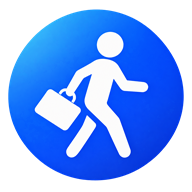
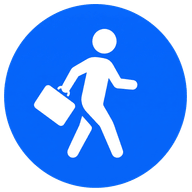
feat: add brand assets, build script, and core layout components

diff --git a/src/components/shared/Logo.tsx b/src/components/shared/Logo.tsx
@@ -3,27 +3,30 @@ import type { CSSProperties } from "react";
 
 type LogoVariant = "primary" | "brand" | "bar" | "mark" | "icon";
 
-// Real dimensions of the trimmed source assets in public/logos/ (and
-// app/icon.png for the "icon" variant) — used to derive width from a target
-// height so the mark is never stretched.
-const VARIANTS: Record<LogoVariant, { src: string; width: number; height: number }> = {
+// Web versions of the official brand files, built from public/logos/ by
+// scripts/build-brand-assets.cjs (trimmed, compressed, and with the mark's
+// walking figure filled white). Dimensions are used to derive width from a
+// target height so the logo is never stretched.
+//
+// `box`: the share of the requested `height` the artwork itself fills. The
+// original lockup files carried a lot of empty padding and every call site
+// sized them with that padding included (height={72} drew ~29px of logo), so
+// the trimmed lockup keeps that meaning: same visible size, same spacing.
+const VARIANTS: Record<LogoVariant, { src: string; width: number; height: number; box?: number }> = {
   // Stacked lockup: mark over "TalentSnaps" wordmark over tagline. Square —
   // only fits contexts with real room (footer, docs, big brand sections),
   // never a shallow navbar/sidebar row.
   primary: { src: "/logos/primary-logo.png", width: 2048, height: 2048 },
   // Horizontal mark + "TalentSnaps" wordmark + tagline. The default for any
   // shallow horizontal slot: navbars, expanded sidebars, auth screens.
-  brand: { src: "/logos/brand-logo.png", width: 2880, height: 1440 },
+  brand: { src: "/brand/lockup.png", width: 1400, height: 308, box: 578 / 1440 },
   // Mark only, square — used at small sizes for the tightest spaces (mobile
   // nav, thin bars) since the full wordmark+tagline lockup isn't legible
   // that small. Use via <ResponsiveLogo> rather than directly in most cases.
-  bar: { src: "/logos/bar-logo.png", width: 2048, height: 2048 },
+  bar: { src: "/brand/mark.png", width: 512, height: 512 },
   // Mark only, no text — collapsed sidebar, floating buttons, loaders,
   // decorative watermarks, anywhere text would be too small to read.
-  // Note: this asset has an opaque white background rather than
-  // transparency, so it'll show a faint white square on non-white
-  // surfaces (e.g. AuthSplitLayout's dark sidebar) until re-exported.
-  mark: { src: "/logos/logo-mark.png", width: 2048, height: 2048 },
+  mark: { src: "/brand/mark.png", width: 512, height: 512 },
   // Circular app-icon badge — matches app/icon.png, for the rare in-app
   // spot that wants the literal favicon-shaped mark rather than the bare
   // arrow (e.g. an "install app" prompt).
@@ -43,18 +46,20 @@ export function Logo({
   priority?: boolean;
   style?: CSSProperties;
 }) {
-  const { src, width, height: naturalHeight } = VARIANTS[variant];
-  const computedWidth = Math.round((width / naturalHeight) * height);
+  const { src, width, height: naturalHeight, box = 1 } = VARIANTS[variant];
+  const drawn = Math.round(height * box);
+  const computedWidth = Math.round((width / naturalHeight) * drawn);
+  const inset = (height - drawn) / 2;
 
   return (
     <Image
       src={src}
       alt="TalentSnaps"
       width={computedWidth}
-      height={height}
+      height={drawn}
       priority={priority}
       className={className}
-      style={{ height, width: "auto", ...style }}
+      style={{ height: drawn, width: "auto", ...(inset > 0 ? { marginBlock: inset } : null), ...style }}
     />
   );
 }

diff --git a/src/components/landing/campus/campus.css b/src/components/landing/campus/campus.css
@@ -325,8 +325,9 @@
 .tsl .nav.scrolled{box-shadow:0 1px 0 var(--dash)}
 .tsl .nav-in{display:flex;align-items:center;justify-content:space-between;gap:24px;height:80px;padding-inline:var(--gut)}
 .tsl .logo{display:flex;align-items:center;gap:10px;text-decoration:none;color:var(--ink)}
-.tsl .logo .mark{width:36px;height:36px;border-radius:50%}
-.tsl .wm{font:300 24px/1 var(--brandf);letter-spacing:-.01em}.tsl .wm b{font-weight:600}
+/* Official lockup image; height sets the size, width follows its aspect ratio. */
+.tsl .logo .lockup{height:46px;width:auto;display:block}
+.tsl .fgrid .logo .lockup{height:52px}
 .tsl .links{display:flex;gap:30px;font-size:16.5px}
 .tsl .links a{text-decoration:none;color:var(--ink);position:relative;padding:6px 0}
 .tsl .links a::after{content:"";position:absolute;left:0;right:0;bottom:0;height:1.5px;background:var(--ink);transform:scaleX(0);transform-origin:right;transition:transform .35s var(--ease)}
@@ -588,7 +589,8 @@
   .tsl .app{grid-template-columns:1fr;gap:10px}
 }
 @media (max-width:760px){
-  .tsl .nav-r .login{display:none}
+  /* Phones keep Log in: both nav buttons go compact instead. */
+  .tsl .nav-r{gap:8px}
   .tsl .nav .mseg{display:flex}
   .tsl .hr-body{grid-template-columns:1fr}
   .tsl .pipe{display:none}
@@ -617,8 +619,15 @@
   .tsl .pan-ui .demo{min-width:520px}
   .tsl .show-ui .win{min-width:0}
   .tsl .nav-in{height:68px}
+  .tsl .nav .logo .lockup{height:38px}
   .tsl .nav .btn-sm{padding:10px 14px;font-size:14px}
   .tsl .rule::before,.tsl .rule::after{display:none}
+}
+/* Narrow phones: smaller logo and buttons so Log in and the main button both fit. */
+@media (max-width:420px){
+  .tsl .nav-in{gap:10px}
+  .tsl .nav .logo .lockup{height:30px}
+  .tsl .nav .btn-sm{padding:9px 11px;font-size:13px}
 }
 .tsl .mseg{display:none;gap:6px;justify-content:center;padding:14px var(--gut) 0}
 .tsl .mseg a{font:600 13px/1 var(--mono);text-transform:uppercase;text-decoration:none;padding:9px 12px;border:1px solid var(--dash);border-radius:4px}

diff --git a/src/components/landing/campus/CampusNav.tsx b/src/components/landing/campus/CampusNav.tsx
@@ -2,13 +2,23 @@ import Image from "next/image";
 import Link from "next/link";
 import { AUDIENCE_ORDER, CAMPUS_AUDIENCES, landingHref, type CampusAudience } from "./audiences";
 
-export function CampusLogo({ href }: { href: string }) {
+// The official horizontal lockup (mark + wordmark + tagline), built from
+// public/logos/brand-logo.png by scripts/build-brand-assets.cjs. 1400x308.
+const LOCKUP = { width: 1400, height: 308 };
+
+/** Official TalentSnaps logo. `tone="light"` is the white-text version for dark backgrounds. */
+export function CampusLogo({ href, tone = "dark" }: { href: string; tone?: "dark" | "light" }) {
   return (
     <Link className="logo" href={href} aria-label="TalentSnaps home">
-      <Image className="mark" src="/images/landing/logo-mark.png" alt="" width={36} height={36} priority />
-      <span className="wm">
-        <b>Talent</b>Snaps
-      </span>
+      <Image
+        className="lockup"
+        src={tone === "light" ? "/brand/lockup-light.png" : "/brand/lockup.png"}
+        alt="TalentSnaps: skill meets opportunities"
+        width={LOCKUP.width}
+        height={LOCKUP.height}
+        sizes="220px"
+        priority={tone === "dark"}
+      />
     </Link>
   );
 }

diff --git a/src/components/docs/DocsShell.tsx b/src/components/docs/DocsShell.tsx
@@ -322,10 +322,7 @@ export function DocsShell({ audience, doc, nav, search, availableIn }: Props) {
       <header className="sticky top-0 z-40 border-b border-[#E9EEEE] bg-white/95 backdrop-blur">
         <div className="mx-auto flex h-[72px] max-w-[1500px] items-center gap-4 px-4 sm:px-8">
           <Link href="/" className="flex shrink-0 items-center gap-2.5" style={{ color: INK }} aria-label="TalentSnaps home">
-            <Image src="/images/landing/logo-mark.png" alt="" width={34} height={34} className="rounded-full" priority />
-            <span className="text-[23px] font-light leading-none tracking-[-0.01em] [font-family:var(--font-tsl-brand)]">
-              <b className="font-semibold">Talent</b>Snaps
-            </span>
+            <Image src="/brand/lockup.png" alt="TalentSnaps: skill meets opportunities" width={1400} height={308} sizes="200px" priority className="h-[40px] w-auto" />
             <span className="ml-1 hidden rounded border border-[#D5DDDD] px-1.5 py-0.5 text-[12px] font-semibold uppercase tracking-wide text-[#6E7E7F] sm:inline">Docs</span>
           </Link>
           <button

diff --git a/src/components/shared/SitePageLayout.tsx b/src/components/shared/SitePageLayout.tsx
@@ -98,10 +98,7 @@ export function SitePageLayout({
           {/* Same logo lockup and button as the landing nav (campus.css
               .logo / .btn.btn-dark), so moving between them feels like one site. */}
           <Link href="/" className="flex items-center gap-2.5 shrink-0 text-[#06262B]" aria-label="TalentSnaps home">
-            <Image src="/images/landing/logo-mark.png" alt="" width={36} height={36} className="rounded-full" priority />
-            <span className="text-2xl leading-none font-light tracking-[-0.01em] [font-family:var(--font-tsl-brand)]">
-              <b className="font-semibold">Talent</b>Snaps
-            </span>
+            <Image src="/brand/lockup.png" alt="TalentSnaps: skill meets opportunities" width={1400} height={308} sizes="200px" priority className="h-[44px] w-auto" />
           </Link>
           <Link
             href="/"

diff --git a/src/app/layout.tsx b/src/app/layout.tsx
@@ -82,7 +82,8 @@ export const metadata: Metadata = {
     description: "One intelligent platform connecting HR, students, faculty, and administrators across your institution's placement cell.",
   },
   twitter: {
-    card: "summary",
+    // Large card: shows app/opengraph-image.png (the official stacked logo).
+    card: "summary_large_image",
     title: "TalentSnaps",
     description: "Campus Placement & Assessment Management Platform",
   },

diff --git a/src/components/landing/campus/CampusFooter.tsx b/src/components/landing/campus/CampusFooter.tsx
@@ -14,7 +14,7 @@ export function CampusFooter({ audience }: { audience: CampusAudience }) {
         <div className="row">
           <div className="fgrid">
             <div>
-              <CampusLogo href={cfg.path} />
+              <CampusLogo href={cfg.path} tone="light" />
               <p>{footer.blurb}</p>
             </div>
             <div>
